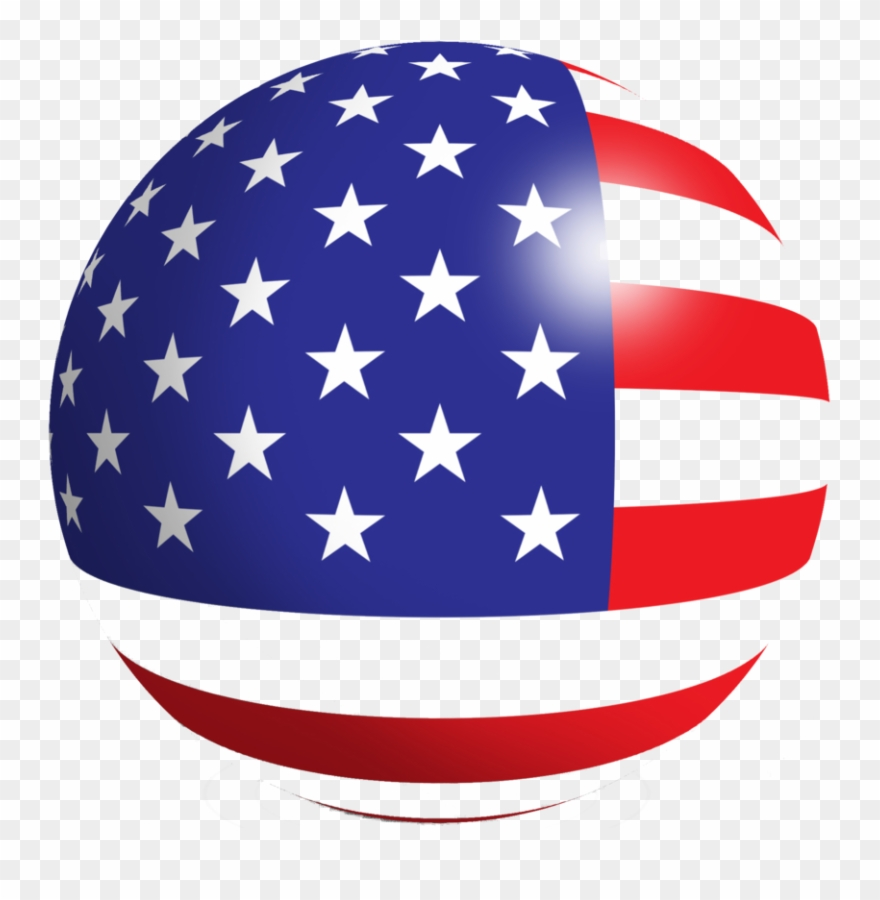
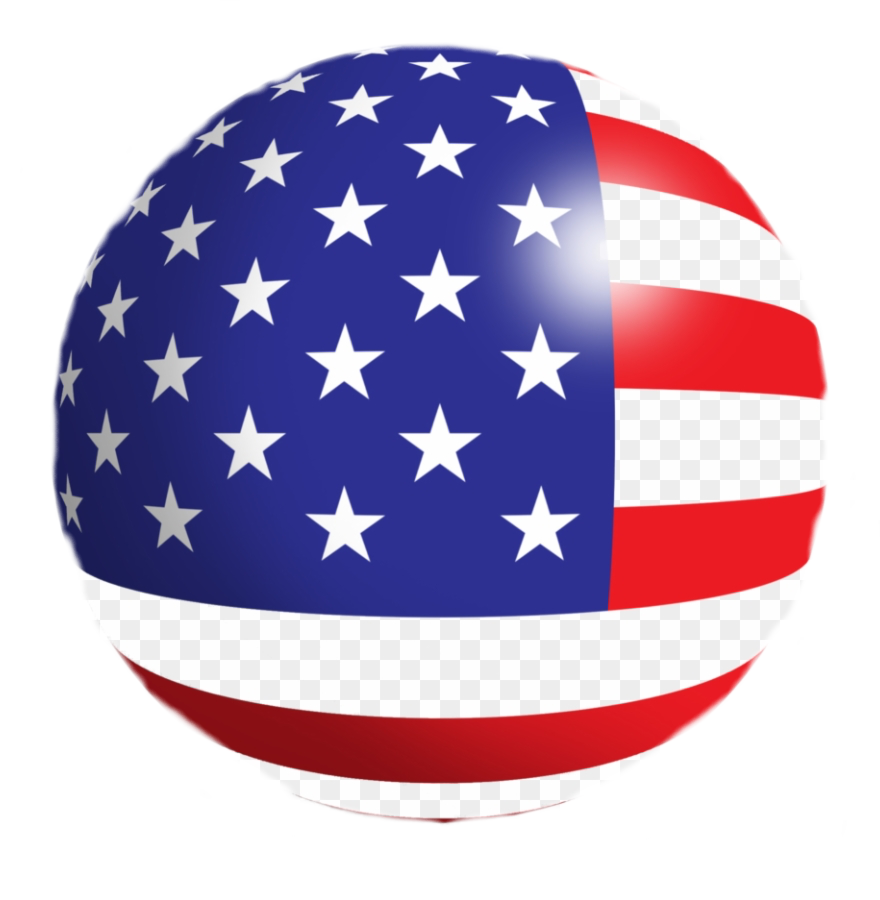
removed backgrounds from images

diff --git a/index.html b/index.html
@@ -32,7 +32,7 @@
             </label>
             <label>
                 <input type="radio" name="status" required value="gold">
-                <img src="./assets/gold-icon.jpeg" alt="Gold Icon">
+                <img src="./assets/gold-icon.png" alt="Gold Icon">
                 <span>Gold</span>
             </label>
             <label>
